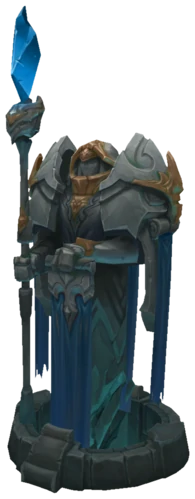
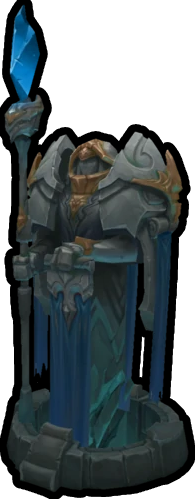
changed coloring of the different badge levels and added a black outline to each badge to stand out more

diff --git a/client/src/Stylesheets/SummonerCard.css b/client/src/Stylesheets/SummonerCard.css
@@ -49,16 +49,6 @@ a:link {
     align-items: center;
 }
 
-.badge{
-    margin: 20%;
-    width: 65%;
-    aspect-ratio: 1 / 1;
-    border-radius: 20%;
-    background-color: #25426e5a;
-    border: 2px solid #bf8600;
-    
-}
-
 .highlightSummoner{
     /* color: #5ced73; */
     color: #bf8600;
@@ -66,6 +56,15 @@ a:link {
 
 .lobbyParticipant{
     color: rgb(255, 255, 255);
+}
+
+.badge{
+    margin: 20%;
+    width: 65%;
+    aspect-ratio: 1 / 1;
+    border-radius: 20%;
+    background-color: #25426e5a;
+    border: 2px solid #bf8600;
 }
 
 .badge img{
@@ -76,13 +75,13 @@ a:link {
 }
 
 .Good{
-    background-color: yellow;
+    background-color: white;
 }
 
 .Great{
-    background-color: rgb(153, 255, 0);
+    background-color: yellow;
 }
 
 .Excellent{
-    background-color: rgb(0, 112, 0);
+    background-color: green;
 }
